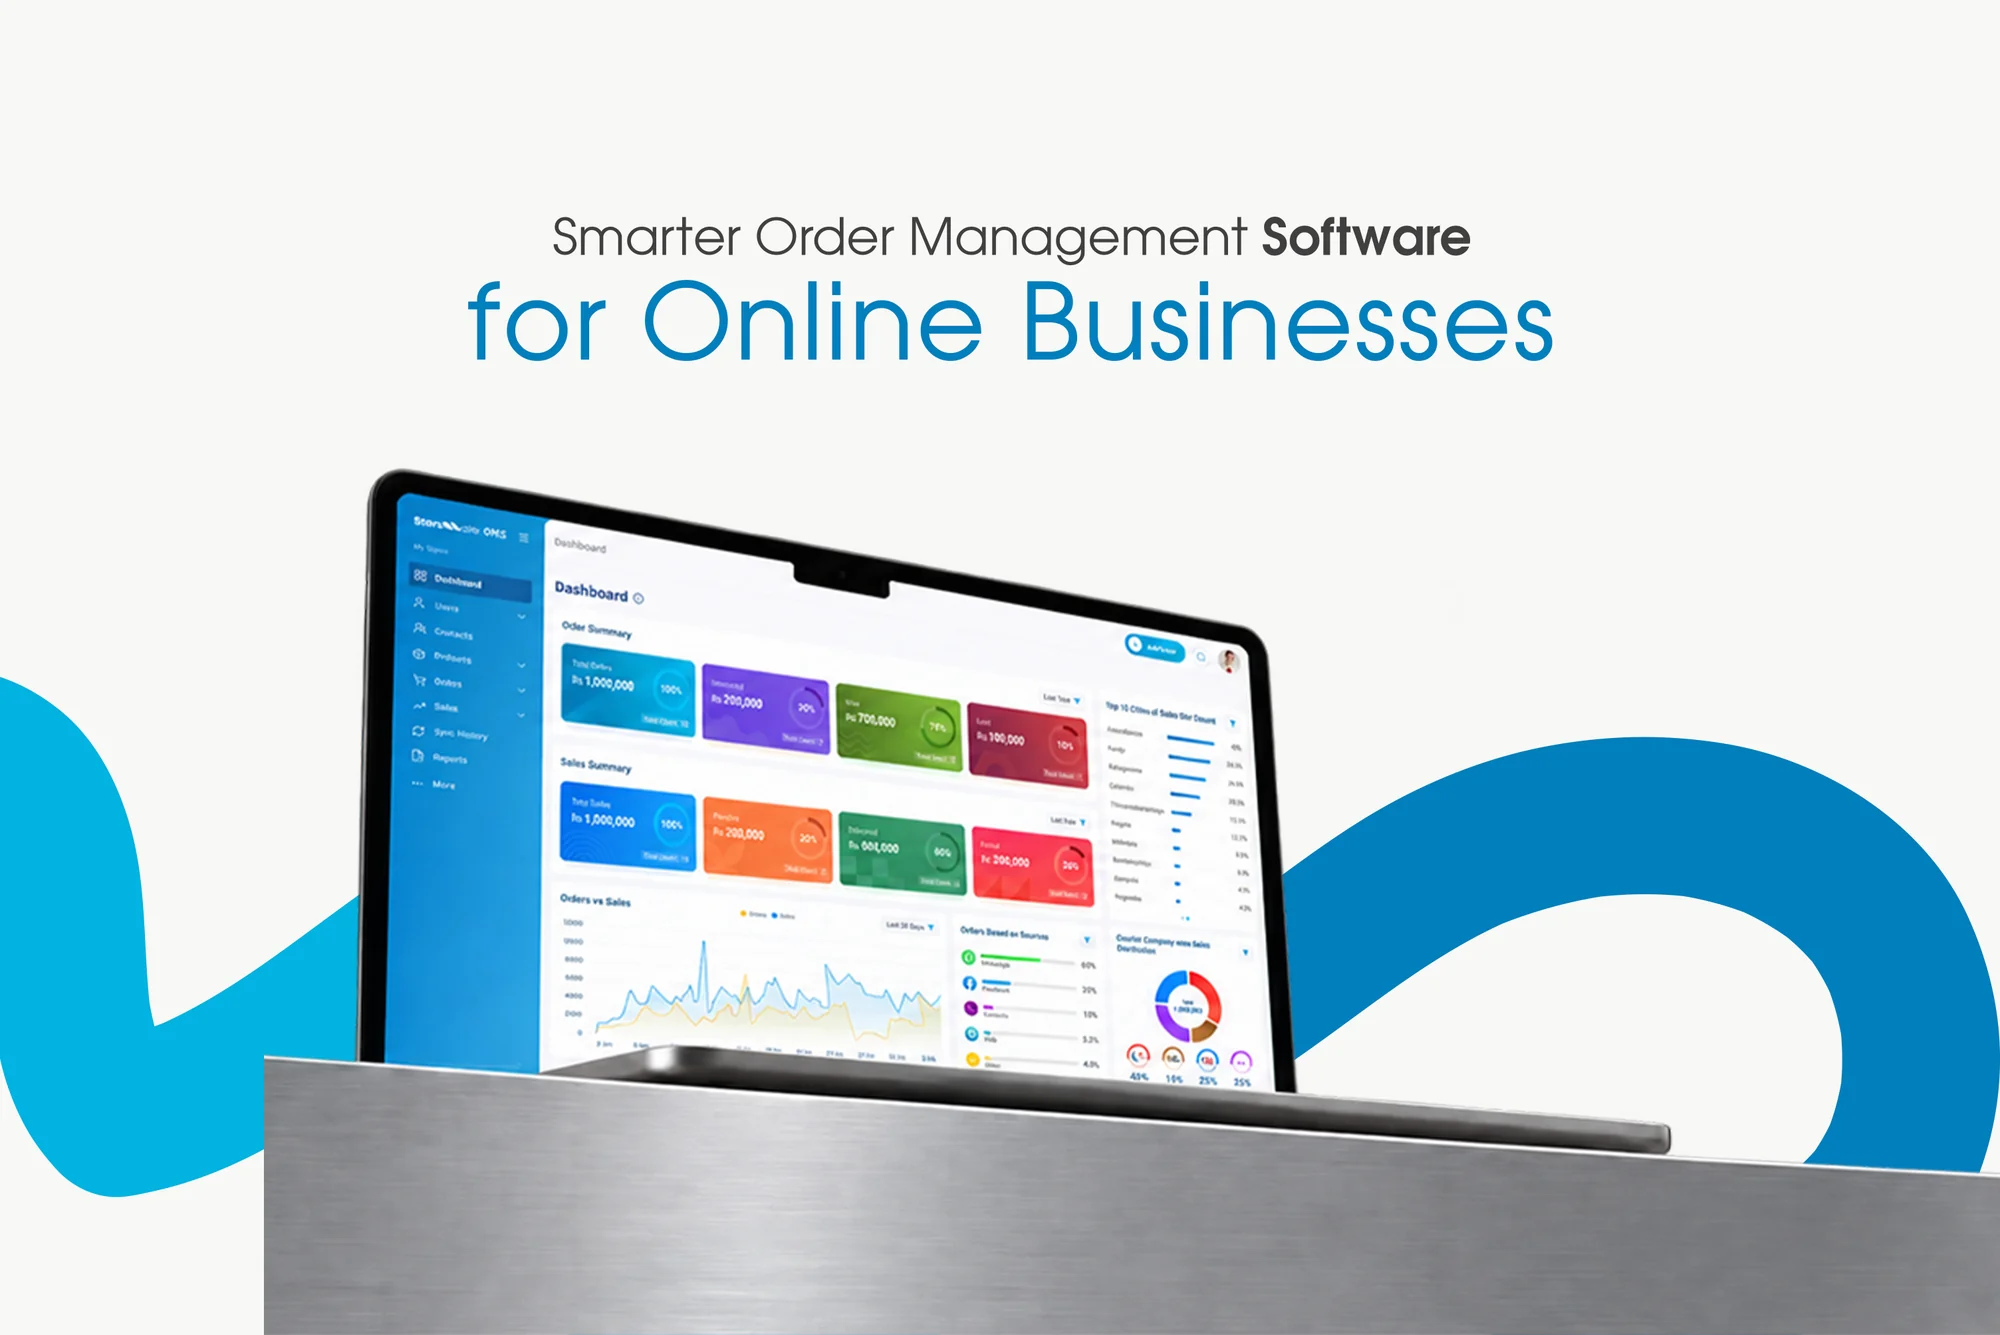
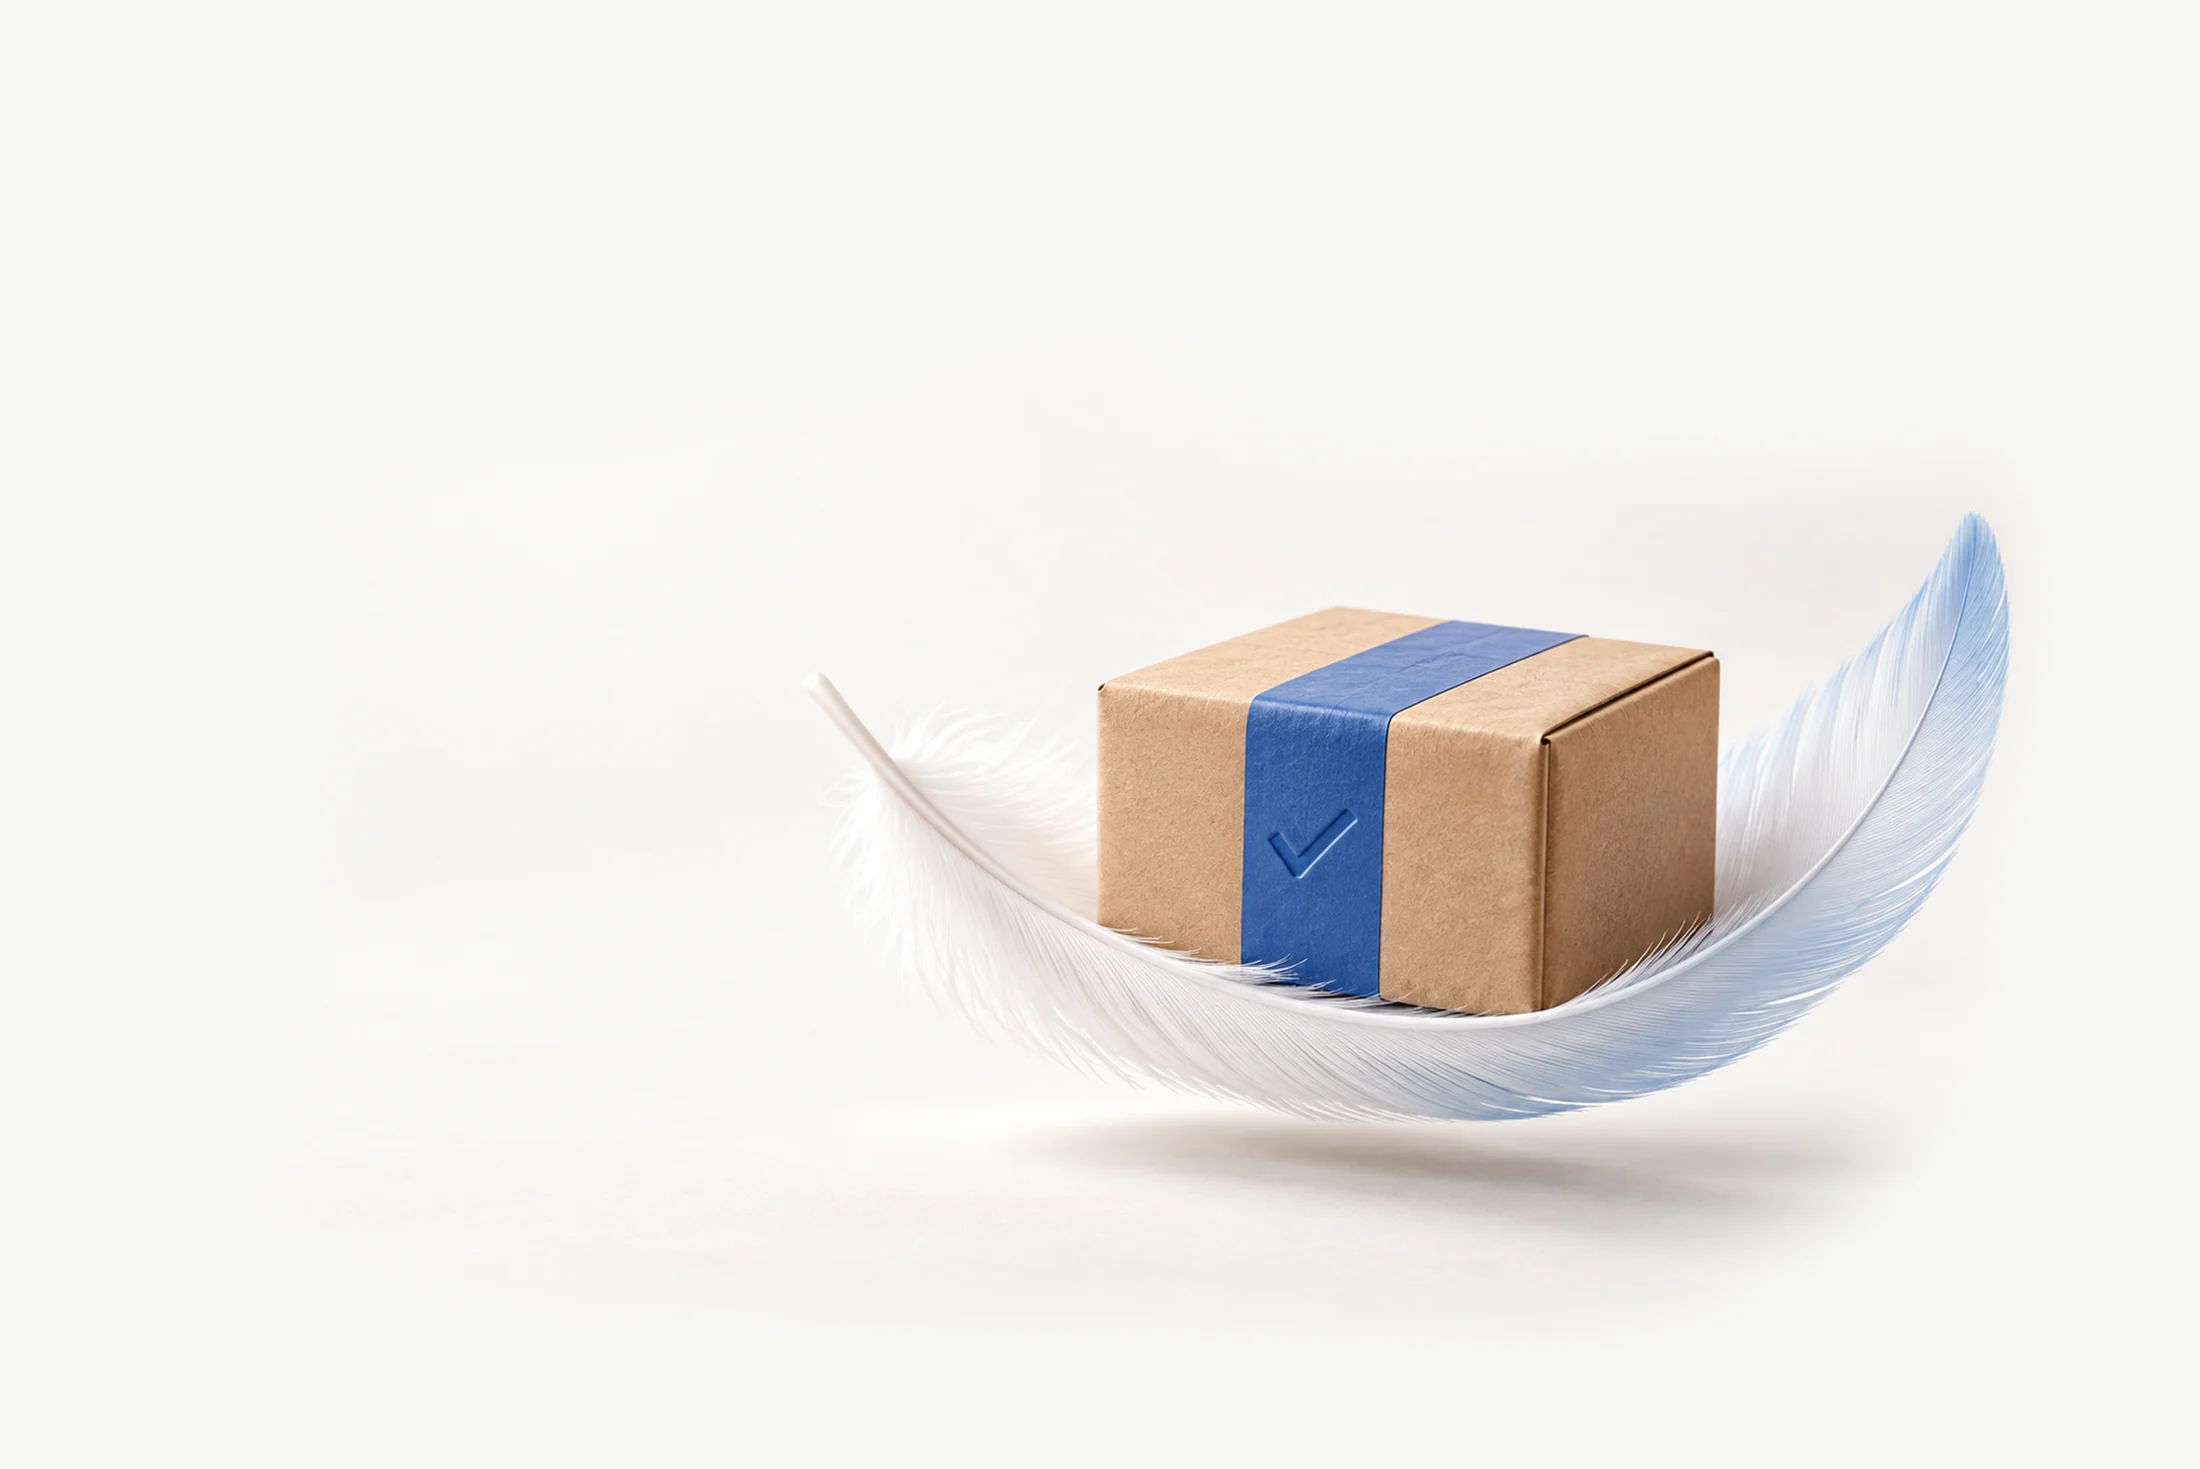
rework the homepage hero: image background, left text, no overlay
New hero image (parcel on a feather) as a plain background, no navy
overlay. Text moves left over the image's empty area with dark type;
headline lines kept unbroken, re-centred below 820px. Old dark-hero
decorations (glow, top line, grain, particles) hidden.

diff --git a/css/home-styles.css b/css/home-styles.css
@@ -1754,23 +1754,50 @@
 
 /* ── HERO: photo background, centered copy ─────── */
 .hero-section {
-  text-align: center !important;
-  padding: 80px 0 0 !important;
+  text-align: left !important;
+  padding: 80px 0 90px !important;
+  /* No overlay: the image is light with its subject on the right, so the
+     left-aligned dark text sits over the empty left area. */
   background:
-    linear-gradient(rgba(1,51,135,0.72), rgba(1,51,135,0.72)),
-    url('../images/screenshots/home-hero-cover.webp') center center / cover no-repeat !important;
+    #f3f4ef url('../images/screenshots/home-hero-cover.webp') right center / cover no-repeat !important;
 }
 .hero-section .container {
   display: block !important;
 }
 .hero-center {
-  max-width: 700px !important;
-  margin: 0 auto !important;
-  padding-bottom: 64px !important;
+  max-width: 560px !important;
+  margin: 0 !important;
 }
-.hero-headline { align-items: center !important; }
-.hero-actions   { justify-content: center !important; }
+/* Dark text, since there is no dark overlay now. */
+.hero-section .hero-eyebrow { color: var(--color-blue) !important; }
+.hero-section .hero-arrival { color: #334155 !important; }
+.hero-section .hero-h1-light,
+.hero-section .hero-h1-bold { color: var(--color-charcoal) !important; }
+.hero-section .hero-text { color: #334155 !important; }
+.hero-section .hero-note { color: #5b6b82 !important; }
+.hero-section .btn-hero-ghost { color: var(--color-charcoal) !important;
+  border-color: rgba(1,51,135,0.3) !important; }
+.hero-section .btn-hero-ghost:hover { border-color: rgba(1,51,135,0.6) !important; }
+/* Left-aligned headline and buttons. */
+.hero-headline { align-items: flex-start !important; white-space: nowrap !important; }
+.hero-actions  { justify-content: flex-start !important; }
 .hero-screenshot-wrap { display: none !important; }
+/* Decorations from the old dark hero: the blue corner glow, cyan top line,
+   grain and particles. They do not belong over the light image. */
+.hero-section .hero-glow,
+.hero-section .hero-grain,
+.hero-section .hero-particles,
+.hero-section .hero-top-line { display: none !important; }
+
+/* Narrow screens: center the text; just the image, no overlay. */
+@media (max-width: 820px) {
+  .hero-section { text-align: center !important;
+    background:
+      #f3f4ef url('../images/screenshots/home-hero-cover.webp') center / cover no-repeat !important; }
+  .hero-center { max-width: 640px !important; margin: 0 auto !important; }
+  .hero-headline { align-items: center !important; white-space: normal !important; }
+  .hero-actions  { justify-content: center !important; }
+}
 
 /* ── PAIN SECTION: dark + screenshot split ───── */
 .pain-layout { display: block; }
